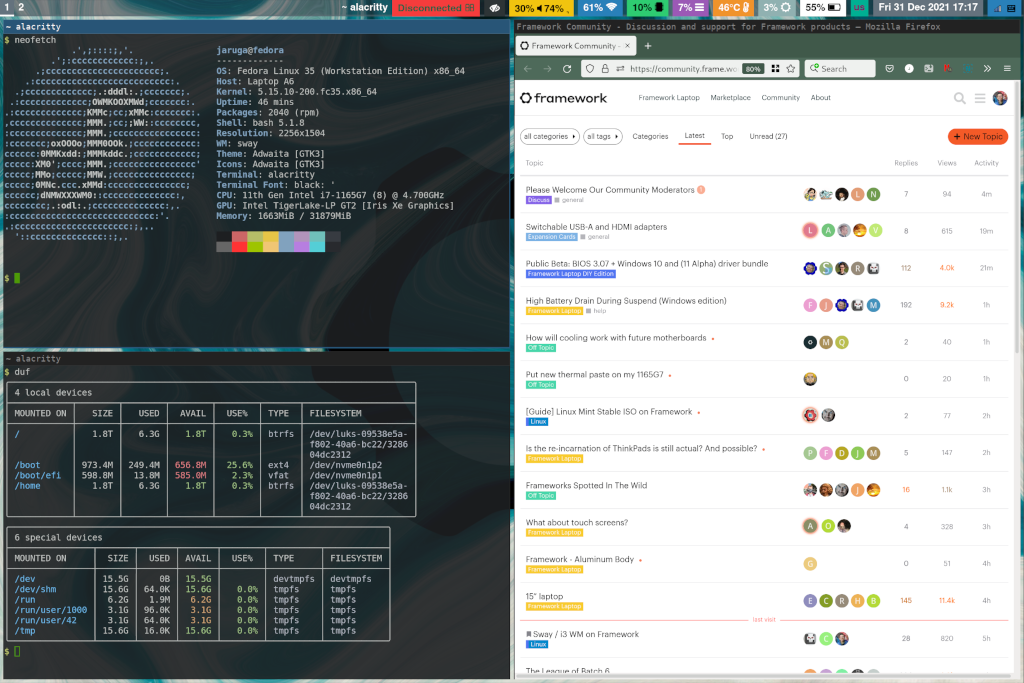
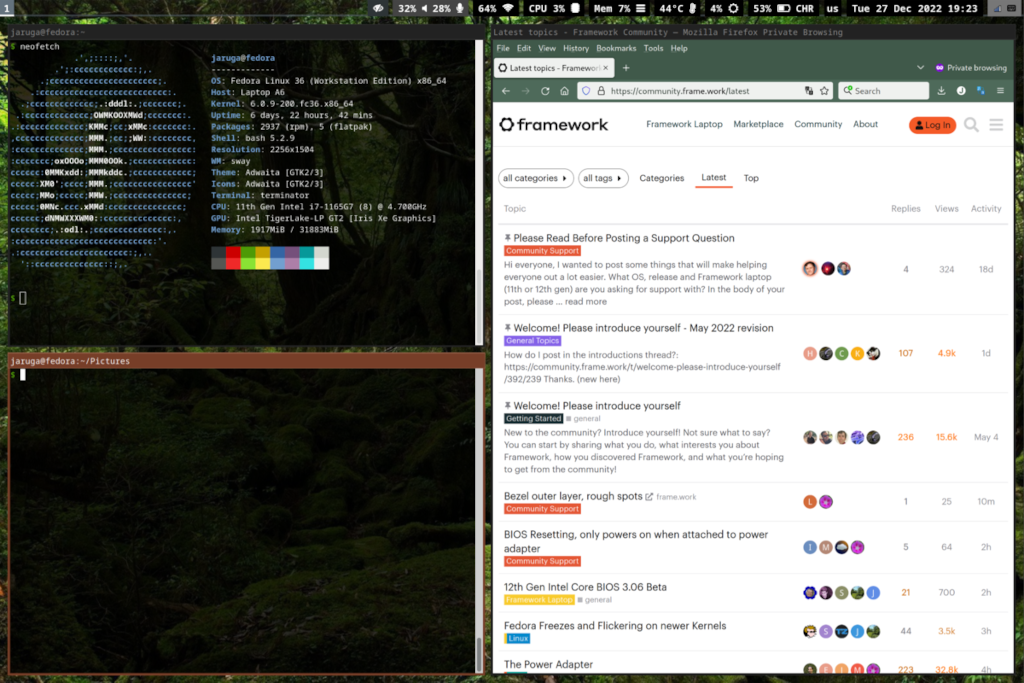
Update the sway, i3 screenshots with width 1024 px.
Now these images are used on the README.

diff --git a/README.md b/README.md
@@ -25,8 +25,6 @@ Public Domain (CC0)
 
 ## Screenshots
 
-Note the screenshots are not the latest ones.
-
 ### Sway
 
 ![Sway screenshot](image/screenshot_sway.png)
